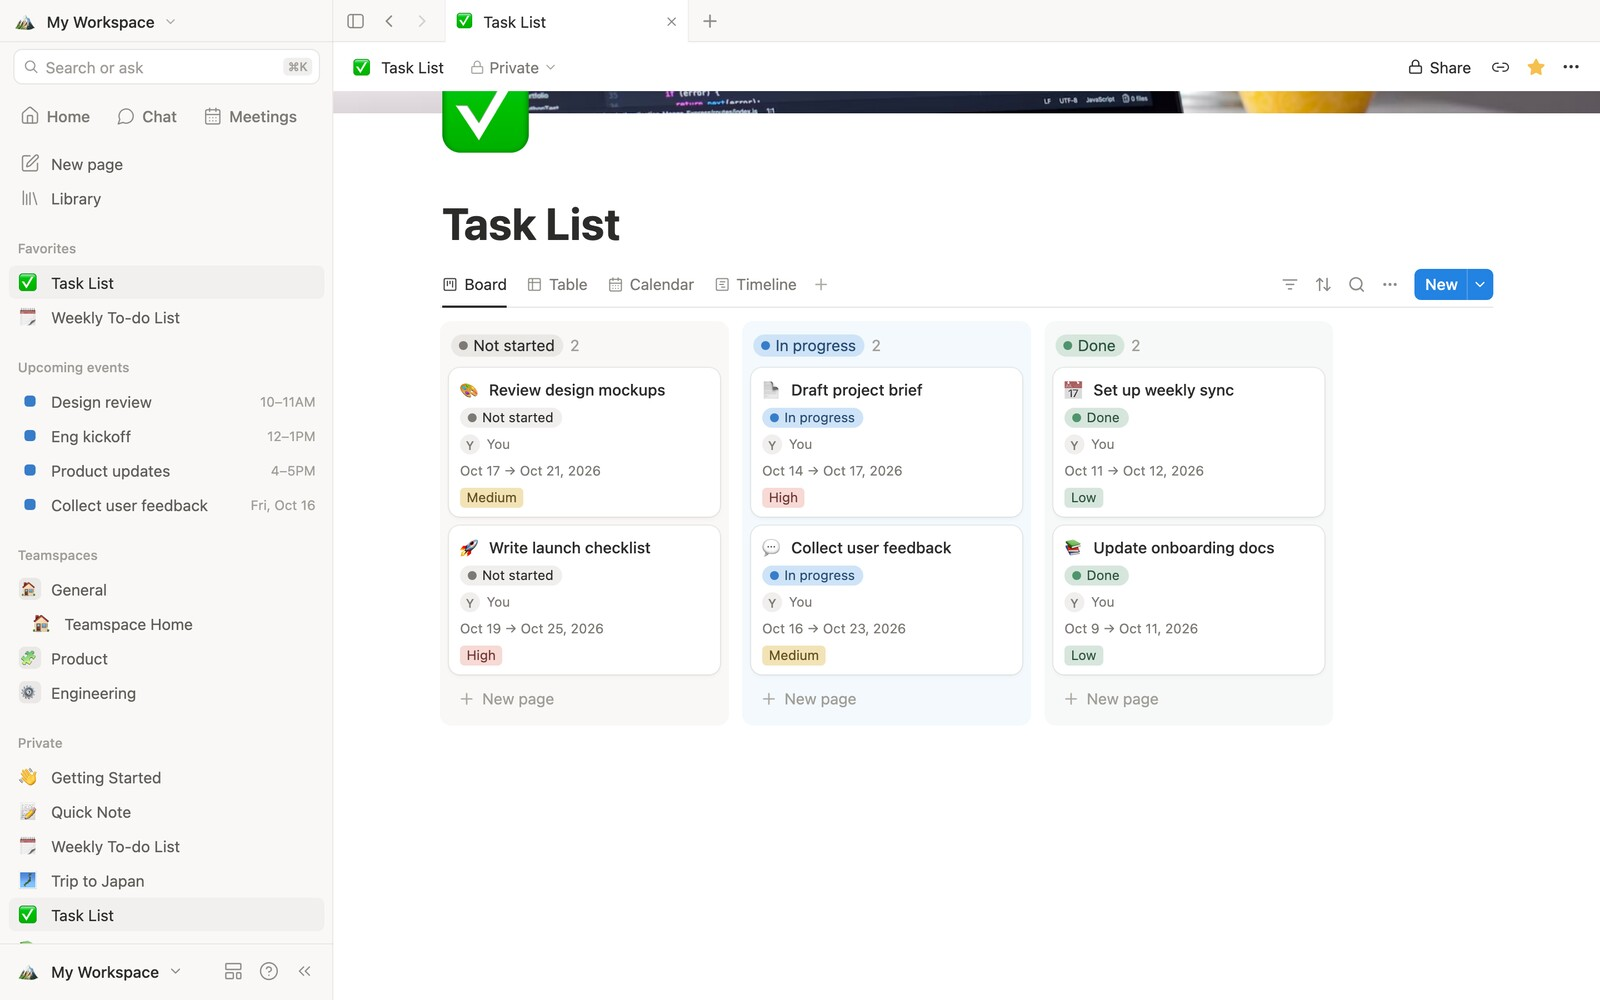
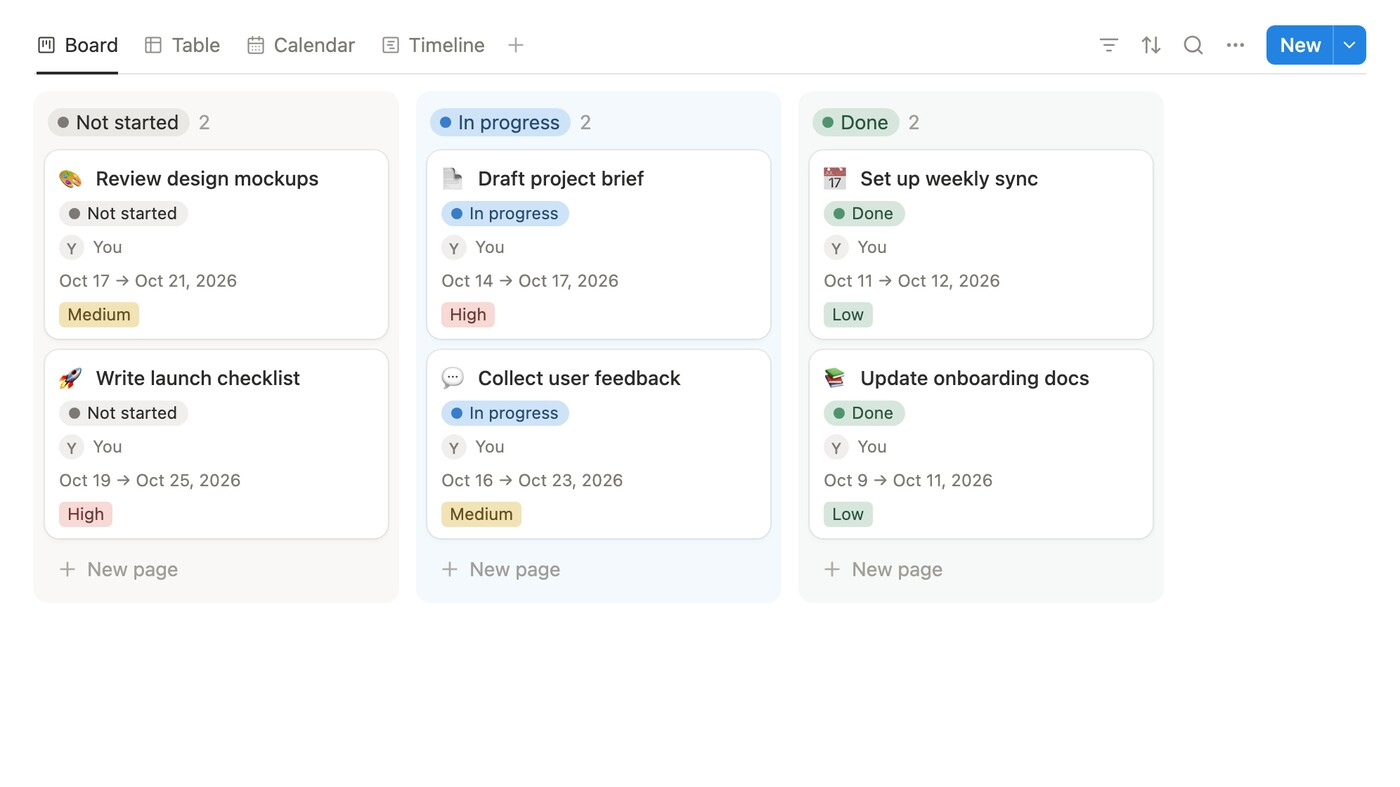
README: legible feature crops and full width board
Feature images are now tight 2x crops of each surface in light and dark, the database section leads with a full width board, and unused screenshots are removed.

diff --git a/README.md b/README.md
@@ -102,15 +102,13 @@ To host it yourself, run `npm run build` and serve the `dist/` folder from any s
 
 ### 🗂 Organize with databases
 
+<picture>
+  <source media="(prefers-color-scheme: dark)" srcset="docs/media/board-dark.jpg">
+  <img src="docs/media/board-light.jpg" alt="Board view grouped by status">
+</picture>
+
 <table>
   <tr>
-    <td width="50%">
-      <picture>
-        <source media="(prefers-color-scheme: dark)" srcset="docs/media/board-dark.jpg">
-        <img src="docs/media/board-light.jpg" alt="Board view">
-      </picture>
-      <p align="center"><b>Board</b></p>
-    </td>
     <td width="50%">
       <picture>
         <source media="(prefers-color-scheme: dark)" srcset="docs/media/table-dark.jpg">
@@ -118,8 +116,6 @@ To host it yourself, run `npm run build` and serve the `dist/` folder from any s
       </picture>
       <p align="center"><b>Table</b></p>
     </td>
-  </tr>
-  <tr>
     <td width="50%">
       <picture>
         <source media="(prefers-color-scheme: dark)" srcset="docs/media/timeline-dark.jpg">
@@ -127,6 +123,8 @@ To host it yourself, run `npm run build` and serve the `dist/` folder from any s
       </picture>
       <p align="center"><b>Timeline</b></p>
     </td>
+  </tr>
+  <tr>
     <td width="50%">
       <picture>
         <source media="(prefers-color-scheme: dark)" srcset="docs/media/calendar-dark.jpg">
@@ -134,8 +132,6 @@ To host it yourself, run `npm run build` and serve the `dist/` folder from any s
       </picture>
       <p align="center"><b>Calendar</b></p>
     </td>
-  </tr>
-  <tr>
     <td width="50%">
       <picture>
         <source media="(prefers-color-scheme: dark)" srcset="docs/media/gallery-dark.jpg">
@@ -143,15 +139,15 @@ To host it yourself, run `npm run build` and serve the `dist/` folder from any s
       </picture>
       <p align="center"><b>Gallery</b></p>
     </td>
-    <td width="50%">
-      <picture>
-        <source media="(prefers-color-scheme: dark)" srcset="docs/media/peek-dark.jpg">
-        <img src="docs/media/peek-light.jpg" alt="Side peek">
-      </picture>
-      <p align="center"><b>Side peek</b></p>
-    </td>
   </tr>
 </table>
+
+<picture>
+  <source media="(prefers-color-scheme: dark)" srcset="docs/media/peek-dark.jpg">
+  <img src="docs/media/peek-light.jpg" alt="Side peek with editable properties">
+</picture>
+
+<p align="center"><sub>Open any row in a side peek to edit its properties and content without leaving the view.</sub></p>
 
 - **Six views**: table, board, list, gallery, calendar and timeline, each with its own filters, sorts, grouping and visible properties.
 - **13 property types**: text, number, select, multi select, status, date (with time and ranges), person, checkbox, URL, email, phone, created time and last edited time.
